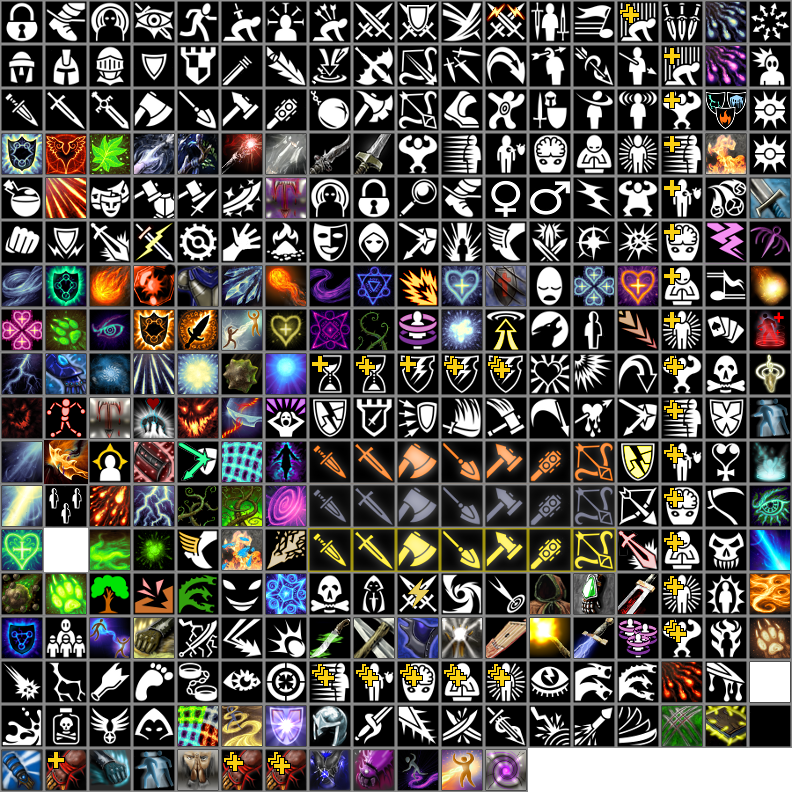
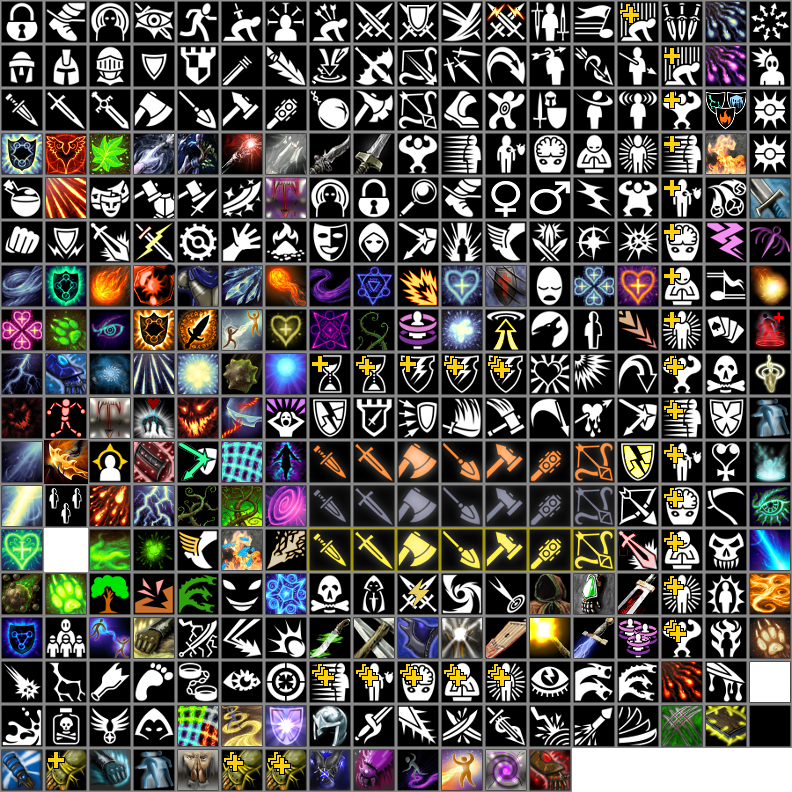
added monk ability slaying blow

Changed region(s): [[0.2727, 0.9394, 0.3939, 1.0], [0.6667, 0.9394, 0.7273, 1.0], [0.0606, 0.9394, 0.1212, 1.0]]

diff --git a/core/scripts/abilities/slayingBlow.js b/core/scripts/abilities/slayingBlow.js
@@ -1,0 +1,87 @@
+function canActivate(game, parent) {
+	if (!parent.timer.canAttack()) return false;
+	
+	var weapon = parent.getMainHandWeapon();
+	
+	return weapon.getTemplate().getBaseWeapon().getName() == "Unarmed";
+}
+
+function onActivate(game, slot) {
+   var creatures = game.ai.getAttackableCreatures(slot.getParent());
+
+   var targeter = game.createListTargeter(slot);
+   targeter.addAllowedCreatures(creatures);
+   targeter.activate();
+}
+
+function onTargetSelect(game, targeter) {
+   targeter.getSlot().activate();
+   
+   var ability = targeter.getSlot().getAbility();
+
+   // perform the attack in a new thread as the standardAttack will
+   // block
+   var cb = ability.createDelayedCallback("performAttack");
+   cb.addArgument(targeter);
+   cb.start();
+}
+
+function performAttack(game, targeter) {
+	var parent = targeter.getParent();
+	var target = targeter.getSelectedCreature();
+	
+	if (game.standardAttack(parent, target)) {
+		// attack suceeded
+		var checkDC = 50 + 4 * (parent.stats.getWis() - 10) +
+			parent.roles.getLevel("Monk") * 4;
+		
+		if (target.stats.has("CriticalHitImmunity")) {
+			game.addMessage("red", parent.getName() + " attempted Slaying Blow against " + target.getName() + ", but they are immune.");
+			return;
+		}
+		
+		if (!target.stats.getPhysicalResistanceCheck(checkDC)) {
+			// target failed check
+			applyEffect(game, parent, target, targeter, 2.0/3.0);
+			
+			game.addMessage("red", parent.getName() + " succeeded on Slaying Blow against " + target.getName() + ".");
+		} else {
+			applyEffect(game, parent, target, targeter, 1.0/3.0);
+			
+			game.addMessage("red", parent.getName() + " failed on Slaying Blow against " + target.getName() + ".");
+			game.addFadeAway("Failed", target.getLocation().getX(), target.getLocation().getY(), "gray");
+		}
+	} else {
+		game.addMessage("red", parent.getName() + " missed on Slaying Blow attempt.");
+	}
+}
+
+function applyEffect(game, parent, target, targeter, fraction) {
+	var callback = targeter.getSlot().getAbility().createDelayedCallback("applyDamage");
+	callback.setDelay(1.0);
+	callback.addArguments([target, target.stats.getMaxHP() * fraction]);
+	callback.start();
+	
+	if (target.drawsWithSubIcons()) {
+		var anim = game.getBaseAnimation("subIconFlash");
+		anim.addFrame(target.getIconRenderer().getIcon("BaseForeground"));
+		anim.setColor(target.getIconRenderer().getColor("BaseForeground"));
+		
+		var pos = target.getSubIconScreenPosition("BaseForeground");
+		anim.setPosition(pos.x, pos.y);
+	} else {
+		var anim = game.getBaseAnimation("iconFlash");
+		anim.addFrameAndSetColor(target.getTemplate().getIcon());
+		var pos = target.getLocation().getCenteredScreenPoint();
+		anim.setPosition(pos.x, pos.y);
+	}
+	
+	anim.setSecondaryGreen(0.0);
+    anim.setSecondaryBlue(0.0);
+	game.runAnimationNoWait(anim);
+	game.lockInterface(anim.getSecondsRemaining());
+}
+
+function applyDamage(game, target, amount) {
+	target.takeDamage(amount, "Effect");
+}
